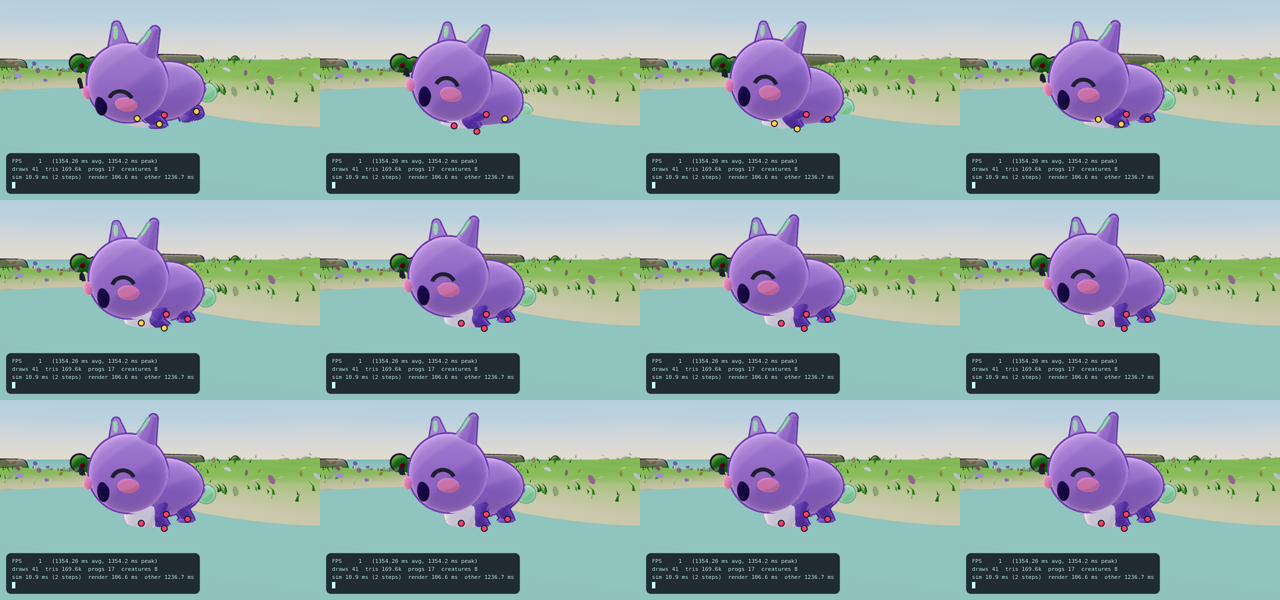
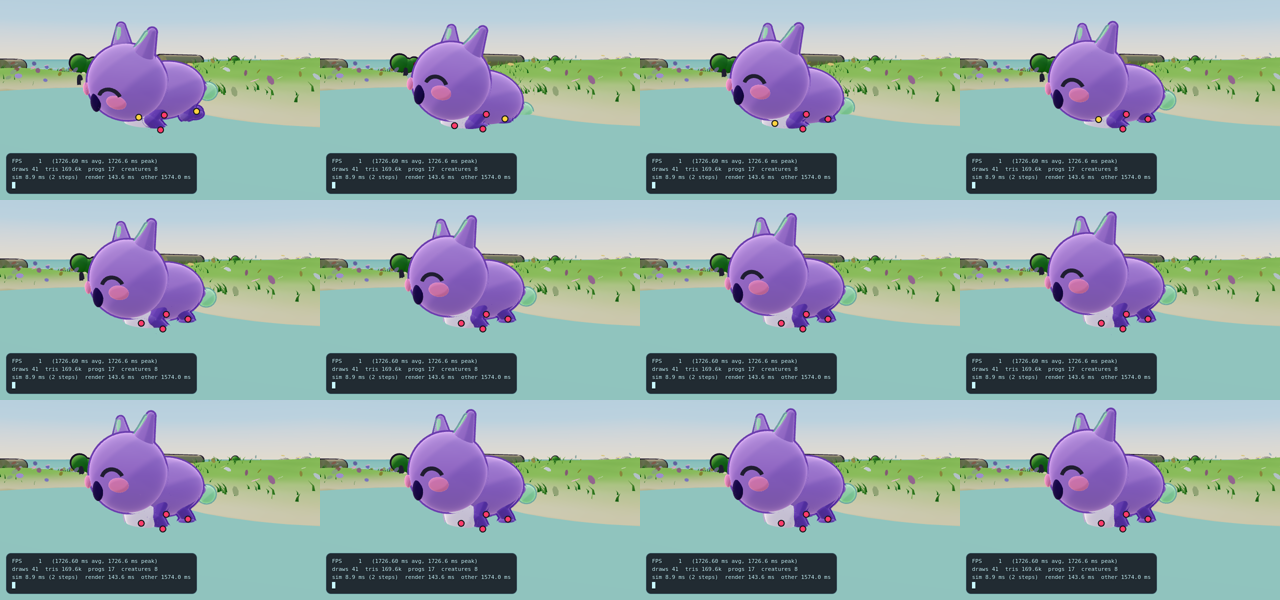
watch: 2026-10-02 14:05:54

diff --git a/watch/REPORT.md b/watch/REPORT.md
@@ -1,83 +1,94 @@
 ```
 # WATCH REPORT
-date 2026-10-02T09:50:16.304Z
-badge build v17 · 2026-10-02 13:49
+date 2026-10-02T10:04:29.295Z
+badge build v18 · 2026-10-02 14:03
 
 ## PEDESTAL
   quat 8.88e-16 pos 0.00e+0 -> PASS
 
 ## STRAIGHT WALK PROBE (8 s each)
-  PIP    slip 1.36 cm | overstretch 7/480 | speed 0.873 | freq 3 Hz
-  MOCHI  slip 8.84 cm | overstretch 24/480 | speed 0.875 | freq 3 Hz
+  PIP    slip 3.52 cm | overstretch 0/480 | speed 0.873 | freq 3 Hz
+  MOCHI  slip 8.08 cm | overstretch 10/480 | speed 0.875 | freq 3 Hz
   BOP    slip 0.00 cm | overstretch 0/480 | speed 2.763 | freq 2.5 Hz
-  ZIK    slip 0.23 cm | overstretch 0/480 | speed 1.128 | freq 3 Hz
+  ZIK    slip 0.25 cm | overstretch 0/480 | speed 1.128 | freq 3 Hz
 
 ## JOINT PROBE (20 s)
-  PIP    40.00 rad/s on hip_r [FORCED STEP]
+  PIP    40.00 rad/s on knee_r [FORCED STEP]
   MOCHI  40.00 rad/s on knee_bl [FORCED STEP]
   ZIK    40.00 rad/s on knee_mid_l [FORCED STEP]
 
 ## FREE-RUNNING WORLD (30 s, all creatures, real behaviour)
   creatures 8 | overlap frames 0/900 | closest pair 1.08x personal space
-  PIP    lifts: beat 155 reach 17 strain 64 catch-up 12 | max planted IK miss 14.48 cm | crouch 6.5 cm
-  MOCHI  lifts: beat 68 reach 49 strain 70 catch-up 98 | max planted IK miss 9.25 cm | crouch 2.6 cm
+  PIP    lifts: beat 138 reach 31 strain 43 catch-up 9 | max planted IK miss 13.67 cm | crouch 6.1 cm
+  MOCHI  lifts: beat 32 reach 53 strain 78 catch-up 94 | max planted IK miss 4.90 cm | crouch 1.5 cm
   BOP    lifts: beat 0 reach 0 strain 0 catch-up 0 | max planted IK miss 0.00 cm | crouch 0.0 cm
-  ZIK    lifts: beat 324 reach 30 strain 39 catch-up 56 | max planted IK miss 2.39 cm | crouch 2.0 cm
+  ZIK    lifts: beat 323 reach 33 strain 36 catch-up 58 | max planted IK miss 4.46 cm | crouch 2.0 cm
 
 ## SLIP FORENSICS (stances that slid > 1 cm)
-  PIP    n 56 | in action 100% | one-frame pop 100% | ended by forced lift 100% | max hip-foot/reach 1.00 | max IK miss 14.5 cm | max post-limiter miss 14.5 cm
-  MOCHI  n 53 | in action 100% | one-frame pop 96% | ended by forced lift 100% | max hip-foot/reach 0.96 | max IK miss 9.3 cm | max post-limiter miss 9.3 cm
-  ZIK    n 8 | in action 100% | one-frame pop 88% | ended by forced lift 100% | max hip-foot/reach 0.94 | max IK miss 1.8 cm | max post-limiter miss 1.8 cm
-    PIP leg 0: slip 14.3 jump 14.3 cm | reach 1.00 | IK 14.5 post 14.5 cm | ACTION | forced
-    PIP leg 1: slip 12.1 jump 12.1 cm | reach 0.93 | IK 12.5 post 12.5 cm | ACTION | forced
-    PIP leg 0: slip 11.8 jump 11.8 cm | reach 0.86 | IK 12.2 post 12.2 cm | ACTION | forced
-    MOCHI leg 0: slip 8.9 jump 8.9 cm | reach 0.95 | IK 9.3 post 9.3 cm | ACTION | forced
-    PIP leg 1: slip 8.8 jump 8.8 cm | reach 0.90 | IK 8.8 post 8.8 cm | ACTION | forced
-    PIP leg 1: slip 8.0 jump 8.0 cm | reach 0.90 | IK 8.1 post 8.1 cm | ACTION | forced
-    MOCHI leg 3: slip 7.3 jump 7.3 cm | reach 0.76 | IK 7.8 post 7.8 cm | ACTION | forced
-    PIP leg 0: slip 5.8 jump 5.8 cm | reach 0.83 | IK 7.6 post 7.6 cm | ACTION | forced
-  PIP    LEG joint max 36.1 rad/s on knee_l(plant) | leg frames >20: 40
-  MOCHI  LEG joint max 36.2 rad/s on knee_br(plant) | leg frames >20: 50
-  ZIK    LEG joint max 29.1 rad/s on knee_front_l(plant) | leg frames >20: 11
-  PIP    BODY snap max 91.1 rad/s during action 'sleep'
-  MOCHI  BODY snap max 48.9 rad/s during action 'sleep'
-  BOP    BODY snap max 28.0 rad/s during action 'none'
-  ZIK    BODY snap max 14.0 rad/s during action 'eat'
-  PIP    stances 266 | slip avg 0.71 cm worst 14.28 cm | stances >1cm 56 | max joint 91.1 rad/s on body | frames >20 rad/s 37 | moving 27%
-  MOCHI  stances 347 | slip avg 0.46 cm worst 8.85 cm | stances >1cm 53 | max joint 48.9 rad/s on body | frames >20 rad/s 34 | moving 32%
-  BOP    stances 0 | slip avg 0.00 cm worst 0.00 cm | stances >1cm 0 | max joint 28.0 rad/s on body | frames >20 rad/s 1 | moving 26%
-  ZIK    stances 492 | slip avg 0.12 cm worst 1.79 cm | stances >1cm 8 | max joint 29.1 rad/s on knee_front_l | frames >20 rad/s 7 | moving 7%
+  PIP    n 39 | in action 100% | one-frame pop 100% | ended by forced lift 100% | max hip-foot/reach 0.97 | max IK miss 10.6 cm | max post-limiter miss 11.6 cm
+  MOCHI  n 66 | in action 100% | one-frame pop 95% | ended by forced lift 100% | max hip-foot/reach 0.97 | max IK miss 4.9 cm | max post-limiter miss 4.9 cm
+  ZIK    n 11 | in action 100% | one-frame pop 100% | ended by forced lift 100% | max hip-foot/reach 0.92 | max IK miss 4.5 cm | max post-limiter miss 9.3 cm
+    PIP leg 1: slip 11.5 jump 11.5 cm | reach 0.96 | IK 10.6 post 11.6 cm | ACTION | forced
+    ZIK leg 5: slip 9.3 jump 9.5 cm | reach 0.88 | IK 4.5 post 9.3 cm | ACTION | forced
+    PIP leg 0: slip 5.8 jump 5.5 cm | reach 0.88 | IK 5.9 post 5.9 cm | ACTION | forced
+    PIP leg 0: slip 5.3 jump 5.3 cm | reach 0.90 | IK 5.9 post 5.9 cm | ACTION | forced
+    MOCHI leg 1: slip 5.0 jump 4.0 cm | reach 0.97 | IK 4.9 post 4.9 cm | ACTION | forced
+    PIP leg 1: slip 4.5 jump 3.9 cm | reach 0.90 | IK 5.8 post 5.8 cm | ACTION | forced
+    MOCHI leg 0: slip 4.4 jump 4.3 cm | reach 0.82 | IK 4.5 post 4.5 cm | ACTION | forced
+    PIP leg 1: slip 3.5 jump 3.5 cm | reach 0.93 | IK 3.8 post 3.8 cm | ACTION | forced
+  PIP    LEG joint max 40.0 rad/s on knee_r(plant) | leg frames >20: 40
+  MOCHI  LEG joint max 33.5 rad/s on knee_br(plant) | leg frames >20: 24
+  ZIK    LEG joint max 40.0 rad/s on knee_rear_r(plant) | leg frames >20: 16
+  PIP    BODY snap max 14.0 rad/s (rendered) during 'sleep' | raw target 91.2 rad/s during 'sleep' busy false roll-over 0.00 rad
+  MOCHI  BODY snap max 14.0 rad/s (rendered) during 'sleep' | raw target 90.6 rad/s during 'sleep' busy false roll-over 0.00 rad
+  BOP    BODY snap max 14.0 rad/s (rendered) during 'none' | raw target 28.0 rad/s during 'none' busy false roll-over 0.00 rad
+  ZIK    BODY snap max 14.0 rad/s (rendered) during 'eat' | raw target 14.0 rad/s during 'eat' busy true roll-over 0.00 rad
+  PIP    WALK joint peak 27.5 on knee_l(plant) | hip-foot/reach 0.835 | IK miss 0.06 cm | since land 0.13 s | crouch step 0.71 cm | action 'eat' | lifted false | kick false
+  MOCHI  WALK joint peak 33.5 on knee_br(plant) | hip-foot/reach 0.958 | IK miss 0.05 cm | since land 0.13 s | crouch step 0.04 cm | action 'play' | lifted false | kick false
+  ZIK    WALK joint peak 39.5 on knee_rear_r(plant) | hip-foot/reach 0.825 | IK miss 0.00 cm | since land 0.03 s | crouch step 0.00 cm | action 'sleep' | lifted false | kick false
+  PIP    stances 241 | slip avg 0.44 cm worst 11.49 cm | stances >1cm 39 | max joint 40.0 rad/s on knee_r | frames >20 rad/s 32 | moving 26%
+  MOCHI  stances 321 | slip avg 0.53 cm worst 4.99 cm | stances >1cm 66 | max joint 33.5 rad/s on knee_br | frames >20 rad/s 17 | moving 29%
+  BOP    stances 0 | slip avg 0.00 cm worst 0.00 cm | stances >1cm 0 | max joint 14.0 rad/s on body | frames >20 rad/s 0 | moving 25%
+  ZIK    stances 494 | slip avg 0.14 cm worst 9.34 cm | stances >1cm 11 | max joint 40.0 rad/s on knee_rear_r | frames >20 rad/s 9 | moving 7%
 
 ## VERDICT
-  PIP    feet SLIDE (worst 14.3 cm, 21% of steps) | knees SNAP (91 rad/s)
-  MOCHI  feet SLIDE (worst 8.9 cm, 15% of steps) | knees SNAP (49 rad/s)
-  BOP    feet no steps seen | knees SNAP (28 rad/s)
-  ZIK    feet SLIDE (worst 1.8 cm, 2% of steps) | knees SNAP (40 rad/s)
+  PIP    feet SLIDE (worst 11.5 cm, 16% of steps) | knees SNAP (40 rad/s)
+  MOCHI  feet SLIDE (worst 5.0 cm, 21% of steps) | knees SNAP (40 rad/s)
+  BOP    feet no steps seen | knees OK
+  ZIK    feet SLIDE (worst 9.3 cm, 2% of steps) | knees SNAP (40 rad/s)
   overlap NONE
   console errors 0
 
 ## SAVE / LOAD
-  creatures 8 | save 4736 bytes | reload identical true
+  creatures 8 | save 4737 bytes | reload identical true
 
 ## SIM COST (CPU only, no render)
-  8 creatures 4.41 ms/step | 24 creatures 14.06 ms/step | 0.586 ms per creature
-  breakdown @24: brain 1.20 | motion+anim 6.01 | leg solve 6.16 | other 0.69 ms/step
+  8 creatures 2.87 ms/step | 24 creatures 13.55 ms/step | 0.565 ms per creature
+  breakdown @24: brain 1.28 | motion+anim 5.50 | leg solve 6.14 | other 0.63 ms/step
+  motion+anim split: preAnimate 1.02 | HeroAnimator 0.32 | postAnimate 1.64 | rest of Agent 2.51 ms/step
+
+## RENDER BUDGET (one frame, home camera; counts matter, not ms)
+  24 creatures | draw calls 388 | triangles 977100 | geometries 376 | textures 34 | shader programs 17
 
 ## GATES
-  PASS  PIP WALK worst slip <= 2 cm    0.15 cm (175 walk steps)
+  PASS  PIP WALK worst slip <= 2 cm    0.15 cm (179 walk steps)
   PASS  PIP WALK steps >1 cm <= 2%     0.0%
-  FAIL  PIP WALK leg joint <= 20 rad/s 36.1 on knee_l(plant)
-  WARN  PIP in actions                 worst 14.3 cm | 21.1% steps | leg joint 36.1 | body 91 rad/s 'sleep'
-  PASS  MOCHI WALK worst slip <= 2 cm  0.15 cm (125 walk steps)
+  FAIL  PIP WALK leg joint <= 20 rad/s 27.5 on knee_l(plant)
+  WARN  PIP in actions                 worst 11.5 cm | 16.2% steps | leg joint 40.0 | body 14 rad/s 'sleep'
+  PASS  MOCHI WALK worst slip <= 2 cm  0.14 cm (93 walk steps)
   PASS  MOCHI WALK steps >1 cm <= 2%   0.0%
-  FAIL  MOCHI WALK leg joint <= 20 rad/s 36.2 on knee_br(plant)
-  WARN  MOCHI in actions               worst 8.9 cm | 15.3% steps | leg joint 36.2 | body 49 rad/s 'sleep'
-  PASS  ZIK WALK worst slip <= 2 cm    0.15 cm (351 walk steps)
+  FAIL  MOCHI WALK leg joint <= 20 rad/s 33.5 on knee_br(plant)
+  WARN  MOCHI in actions               worst 5.0 cm | 20.6% steps | leg joint 33.5 | body 14 rad/s 'sleep'
+  PASS  ZIK WALK worst slip <= 2 cm    0.38 cm (351 walk steps)
   PASS  ZIK WALK steps >1 cm <= 2%     0.0%
-  FAIL  ZIK WALK leg joint <= 20 rad/s 25.3 on knee_rear_r(plant)
-  WARN  ZIK in actions                 worst 1.8 cm | 1.6% steps | leg joint 29.1 | body 14 rad/s 'eat'
+  FAIL  ZIK WALK leg joint <= 20 rad/s 39.5 on knee_rear_r(plant)
+  WARN  ZIK in actions                 worst 9.3 cm | 2.2% steps | leg joint 40.0 | body 14 rad/s 'eat'
+  PASS  PIP BODY snap <= 20 rad/s      14.0 during 'sleep'
+  PASS  MOCHI BODY snap <= 20 rad/s    14.0 during 'sleep'
+  PASS  BOP BODY snap <= 20 rad/s      14.0 during 'none'
+  PASS  ZIK BODY snap <= 20 rad/s      14.0 during 'eat'
   PASS  overlap frames = 0             0
   PASS  console errors = 0             0
   PASS  save/load identical            yes
-  PASS  sim cost scales linearly       3.18x for 3x creatures
+  FAIL  sim cost scales linearly       4.72x for 3x creatures
 ```
